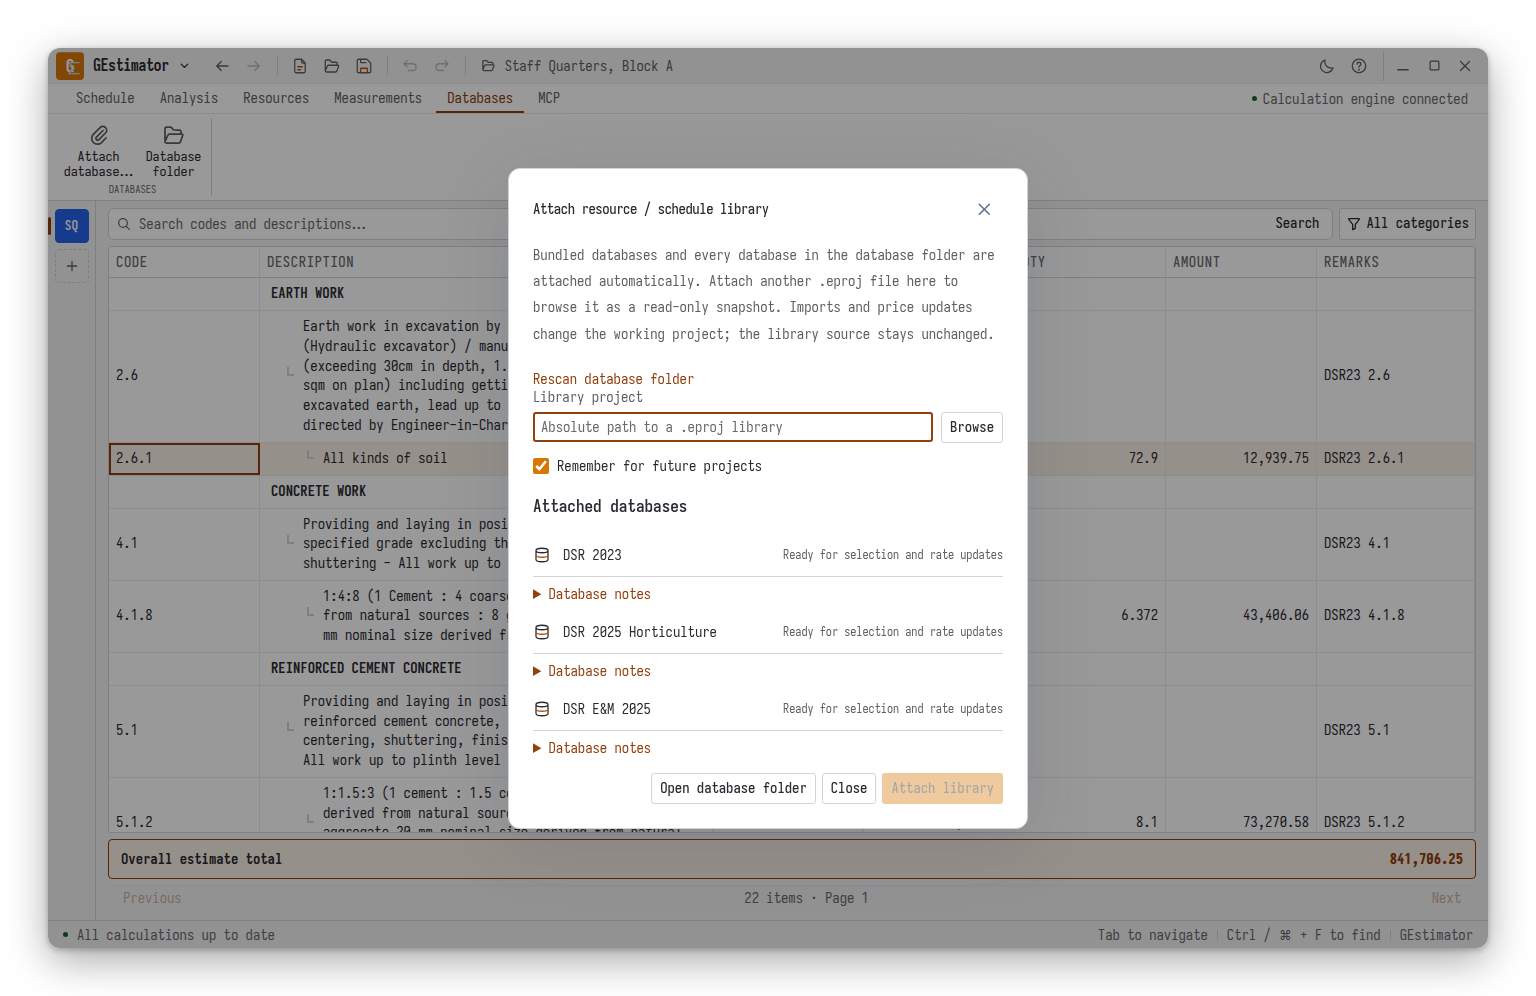
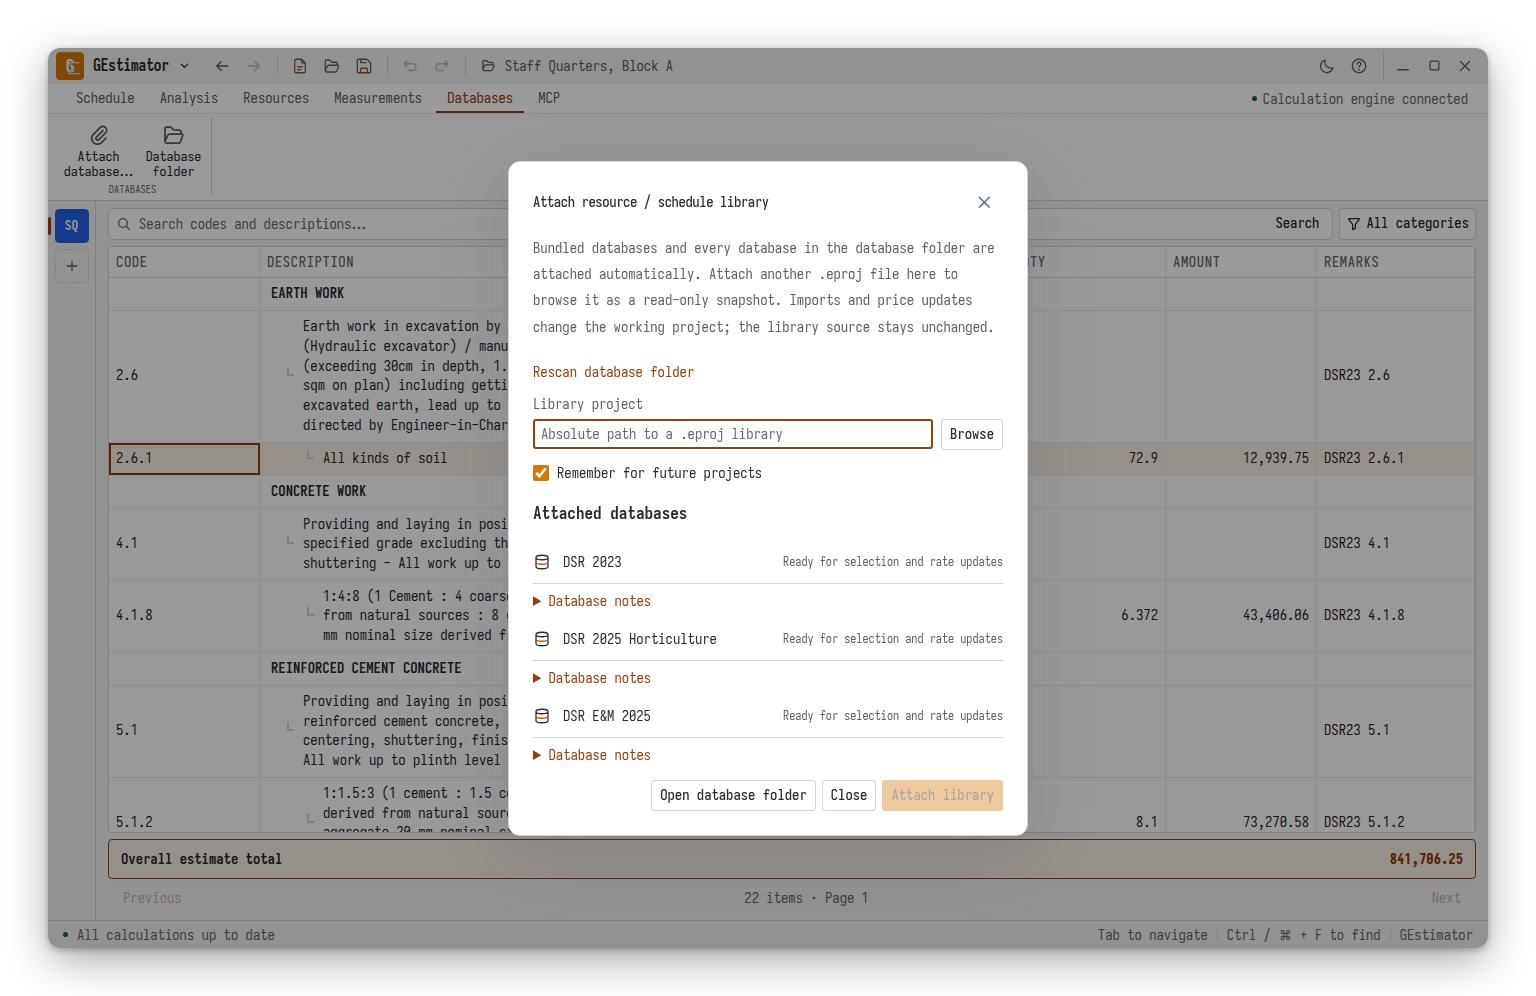
fix(ui): shortcut rows on one line, rescan button spacing; README badges in repo
The keyboard shortcuts dialog is wider and lays each shortcut out as a
two-column row, so keys never wrap onto their own line. The rescan button
in the attach dialog no longer touches the field below it. README download
badges (Windows, Flathub, Snap Store) are stored in docs/badges instead of
being loaded from other sites. Manual screenshots regenerated.

diff --git a/modern/src/style.css b/modern/src/style.css
@@ -1609,6 +1609,7 @@ kbd {
 .saved-libraries { max-height: 280px; overflow: auto; }
 .saved-library { padding: 10px 0; border-top: 1px solid var(--line); }
 .saved-library code { display: block; overflow-wrap: anywhere; margin-block: 5px; font: inherit; font-size: var(--text-size-small); color: var(--muted); }
+.library-rescan { margin: 0 0 14px; }
 .measurement-derived { background: var(--accent-soft); color: var(--muted); }
 .batch-dialog { width: 860px; max-width: 94vw; }
 .workspace-dialog.program-settings-dialog { width: min(94vw, 960px); }
@@ -2133,7 +2134,10 @@ textarea.measurement-entry-title {
 .schedule-estimate-total strong { color: var(--accent); font-variant-numeric: tabular-nums; }
 .shortcut-group + .shortcut-group { margin-top: 20px; }
 .shortcut-group h3 { margin: 0; padding-bottom: 6px; color: var(--accent); font-size: var(--text-size-ui); border-bottom: 1px solid var(--line); }
-.shortcut-list > div { flex-wrap: wrap; gap: 6px 15px; }
+/* One row per shortcut: the label takes the free width, the keys never break. */
+.workspace-dialog.shortcuts-dialog { width: min(94vw, 760px); }
+.shortcut-list > div { display: grid; grid-template-columns: minmax(0, 1fr) auto; gap: 15px; }
+.shortcut-list kbd { white-space: nowrap; }
 
 /* Ribbon SVGs are CSS-sized to 20–24 px: use the B2 24-grid weight (1.75 units). */
 .ribbon svg { stroke-width: 1.75; }

diff --git a/modern/src/components/LibraryManager.vue b/modern/src/components/LibraryManager.vue
@@ -49,7 +49,7 @@ async function browse() {
 <template>
   <Dialog v-model:visible="visible" modal header="Attach resource / schedule library" class="workspace-dialog file-dialog library-manager-dialog" :closable="!busy" :close-on-escape="!busy" @show="refresh">
     <p class="dialog-intro">Bundled databases and every database in the database folder are attached automatically. Attach another .eproj file here to browse it as a read-only snapshot. Imports and price updates change the working project; the library source stays unchanged.</p>
-    <button class="text-button" :disabled="busy || !projectOpen" @click="refresh">Rescan database folder</button>
+    <button class="text-button library-rescan" :disabled="busy || !projectOpen" @click="refresh">Rescan database folder</button>
     <p v-for="warning in catalogWarnings" :key="warning" class="dialog-error" role="status">{{ warning }}</p>
     <label class="field">Library project
       <div class="file-input"><input v-model="path" data-primary-input autofocus aria-label="Library project" :disabled="busy" placeholder="Absolute path to a .eproj library" @keydown.enter.prevent="attach()" />

diff --git a/modern/src/App.vue b/modern/src/App.vue
@@ -1905,7 +1905,7 @@ onBeforeUnmount(() => {
     v-model:visible="helpOpen"
     modal
     header="Keyboard shortcuts"
-    class="workspace-dialog file-dialog"
+    class="workspace-dialog shortcuts-dialog"
     ><div class="shortcut-groups">
       <section v-for="group in shortcutGroups" :key="group.title" class="shortcut-group" :aria-label="group.title">
         <h3>{{ group.title }}</h3>

diff --git a/README.md b/README.md
@@ -9,9 +9,9 @@
 ![License](https://img.shields.io/github/license/manuvarkey/GEstimator)
 
 
-<a href="https://github.com/manuvarkey/GEstimator/releases/latest"><img height="51" alt="Download for Windows" src="https://raw.githubusercontent.com/manuvarkey/GElectrical/master/source/artwork/windows_badge.svg"/> </a>
-<a href="https://flathub.org/apps/com.kavilgroup.gestimator"><img height="51" alt="Download on Flathub" src="https://flathub.org/api/badge?svg&locale=en"/> </a>
-<a href="https://snapcraft.io/gestimator"><img height="51" alt="Download on Snap Store" src="https://snapcraft.io/static/images/badges/en/snap-store-black.svg"/> </a> 
+<a href="https://github.com/manuvarkey/GEstimator/releases/latest"><img height="51" alt="Download for Windows" src="docs/badges/windows.svg"/> </a>
+<a href="https://flathub.org/apps/com.kavilgroup.gestimator"><img height="51" alt="Download on Flathub" src="docs/badges/flathub.svg"/> </a>
+<a href="https://snapcraft.io/gestimator"><img height="51" alt="Download on Snap Store" src="docs/badges/snap-store.svg"/> </a> 
 
 GEstimator prepares cost and quantity estimates of civil and electrical works with detailed rate analysis. It comes bundled with **DSR 2023 (Civil)**, **DSR (E&M) 2025** and **DSR 2025 Horticulture**, and works with any number of your own databases.
 
